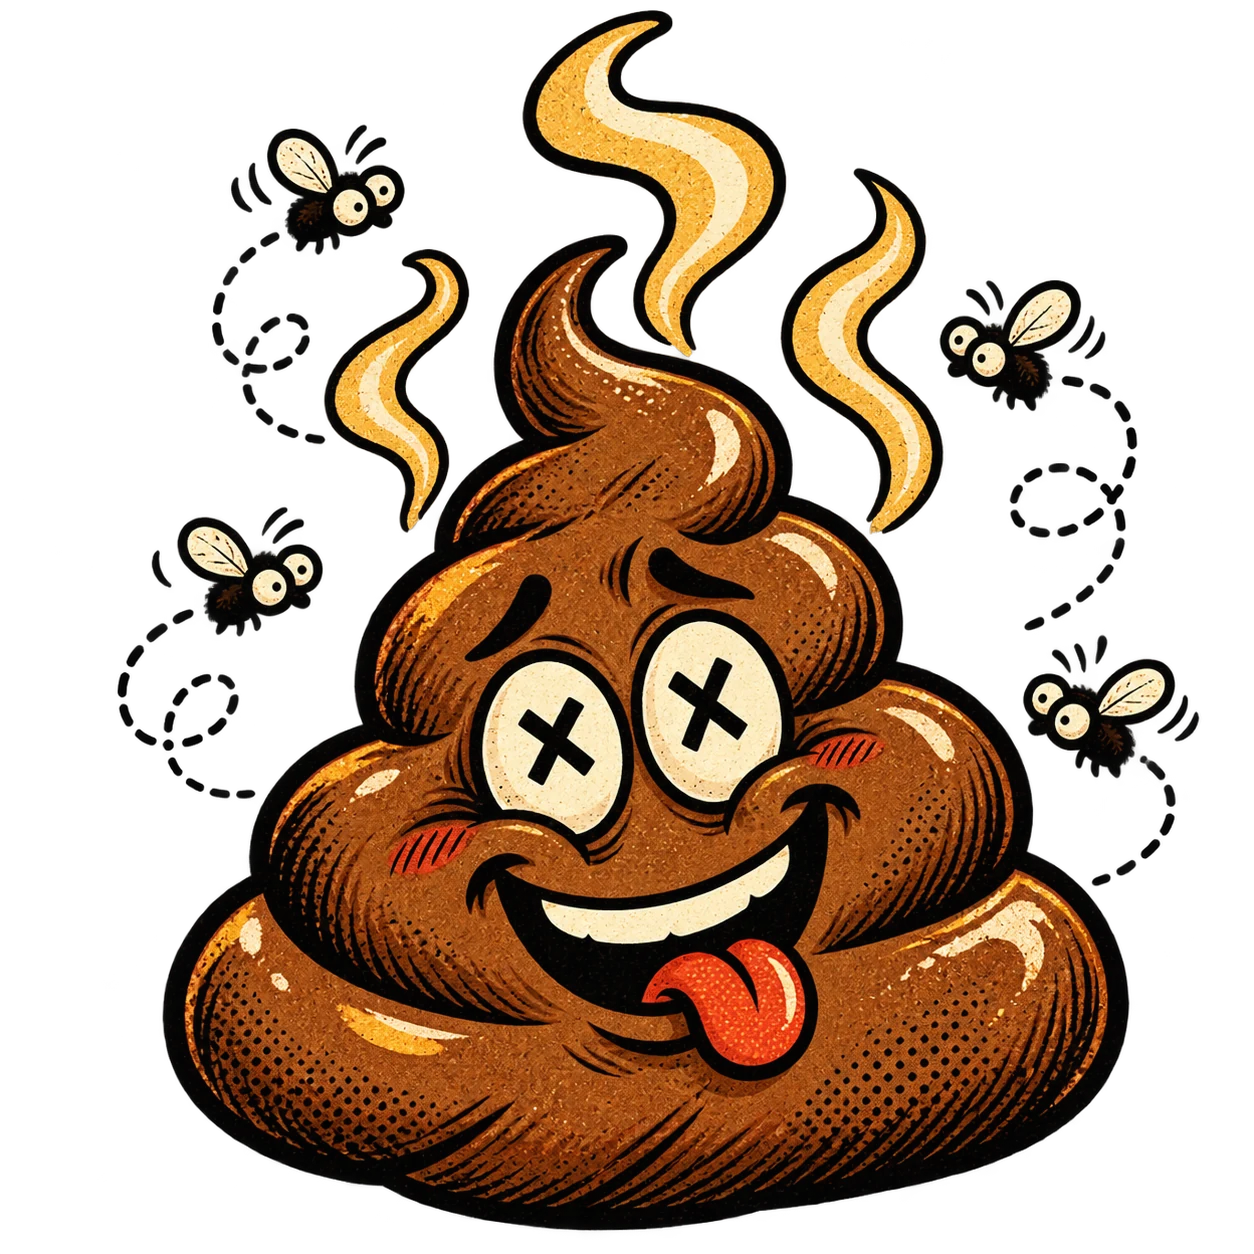
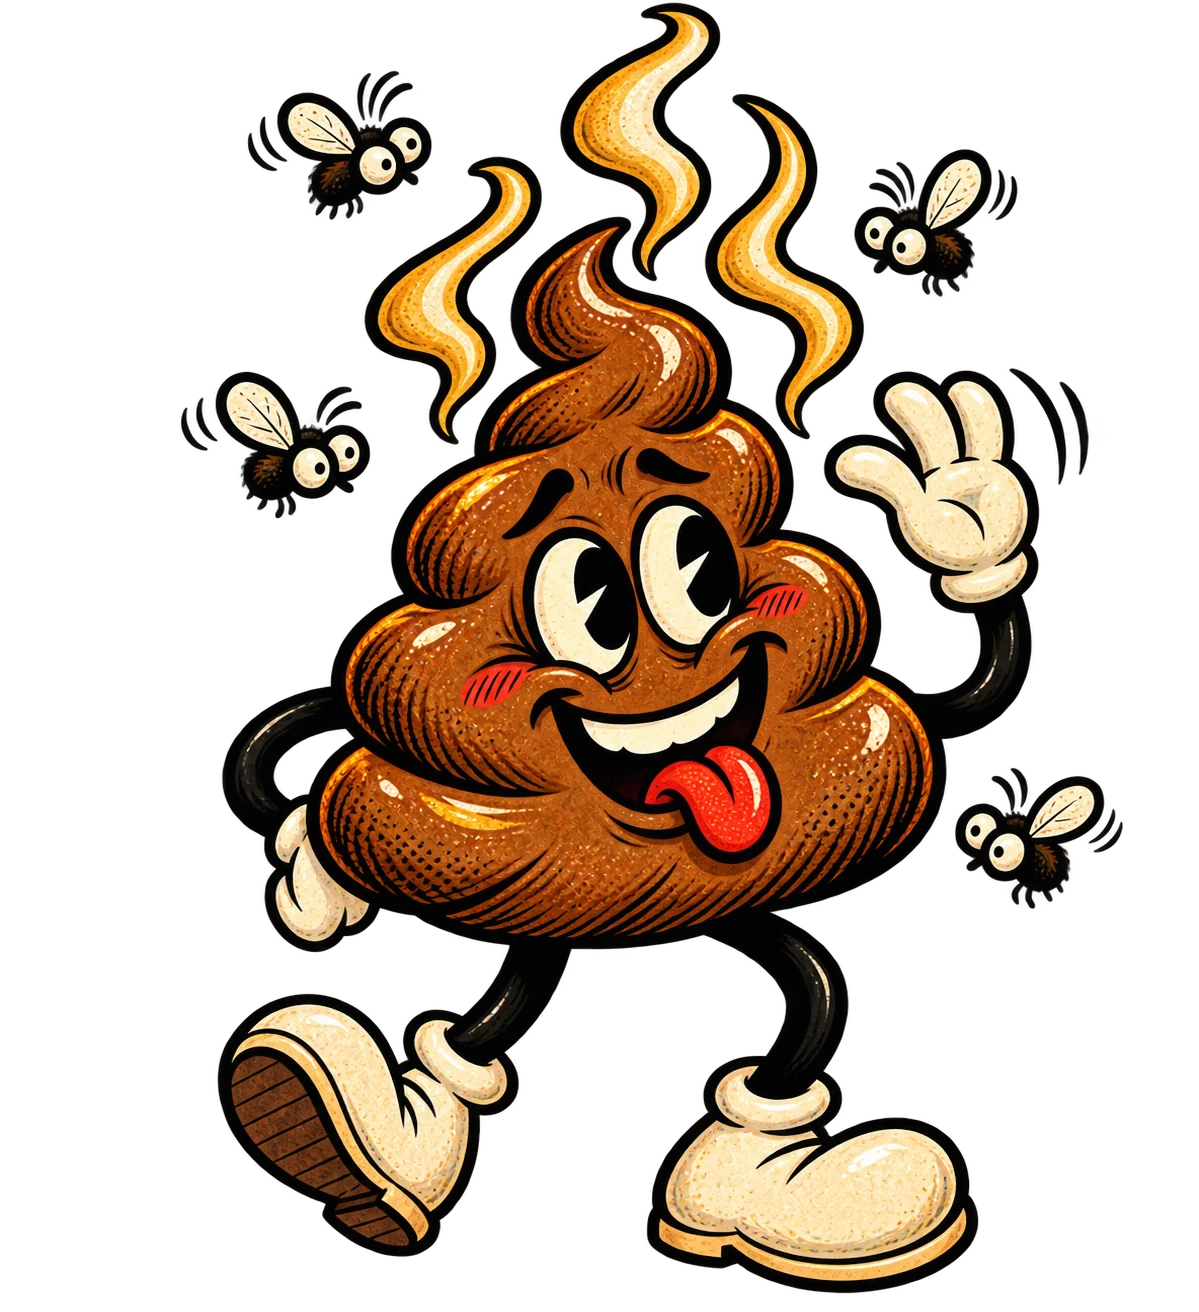
Match scoreboard art and TV typography to rubber-hose style

diff --git a/css/styles.css b/css/styles.css
@@ -586,6 +586,68 @@ body.scoreboard-mode .scoreboard-shell { width: 100vw; height: 100vh; height: 10
 .tv-finish-card > small { grid-column: 1 / -1; overflow: hidden; font-family: var(--font-condensed); font-size: calc(.55 * var(--tv-u)); font-weight: 900; text-overflow: ellipsis; text-transform: uppercase; white-space: nowrap; }
 .tv-finish-card.is-hidden { color: #dac896; background: #21162b; }
 
+/* Couch-distance legibility while retaining the 5-by-2 TV card grids. */
+body.scoreboard-mode .tv-player-heading {
+  grid-template-columns: calc(2.1 * var(--tv-u)) minmax(0, 1fr);
+  grid-template-rows: auto auto;
+  column-gap: calc(.45 * var(--tv-u));
+  row-gap: calc(.08 * var(--tv-u));
+}
+body.scoreboard-mode .tv-player-heading > span { grid-row: 1 / 3; font-size: calc(1.15 * var(--tv-u)); }
+body.scoreboard-mode .tv-player-heading strong { overflow: visible; overflow-wrap: anywhere; font-size: calc(1.75 * var(--tv-u)); line-height: .96; text-overflow: clip; white-space: normal; }
+body.scoreboard-mode .tv-player-heading b { grid-column: 2; justify-self: start; font-size: calc(1.02 * var(--tv-u)); letter-spacing: .025em; line-height: 1; }
+body.scoreboard-mode .tv-glass-pips span { font-size: calc(1.05 * var(--tv-u)); }
+body.scoreboard-mode .tv-player-progress > small { overflow: visible; font-size: calc(1 * var(--tv-u)); letter-spacing: .025em; line-height: 1.05; text-align: center; text-overflow: clip; white-space: normal; }
+body.scoreboard-mode .tv-ready-counter span,
+body.scoreboard-mode .tv-tasting-rail p { font-size: calc(1.05 * var(--tv-u)); line-height: 1.12; }
+
+body.scoreboard-mode .tv-hl-copy > p { font-size: calc(1.08 * var(--tv-u)); letter-spacing: .02em; }
+body.scoreboard-mode .tv-sample-letter { font-size: calc(1.28 * var(--tv-u)); }
+body.scoreboard-mode .tv-hl-values span { font-size: calc(1.5 * var(--tv-u)); line-height: 1.05; }
+body.scoreboard-mode .tv-hl-values small { margin-bottom: calc(.08 * var(--tv-u)); font-size: calc(.9 * var(--tv-u)); font-weight: 900; }
+body.scoreboard-mode .tv-hl-arrows span { font-size: calc(.94 * var(--tv-u)); line-height: 1; }
+body.scoreboard-mode .tv-calls-locked { font-size: calc(.88 * var(--tv-u)); letter-spacing: .015em; }
+body.scoreboard-mode .tv-hl-host > p { font-size: calc(.95 * var(--tv-u)); line-height: 1.08; }
+body.scoreboard-mode .tv-hl-ready strong { font-size: calc(1.9 * var(--tv-u)); }
+body.scoreboard-mode .tv-hl-ready small { font-size: calc(.9 * var(--tv-u)); }
+body.scoreboard-mode .tv-hl-ready span { font-size: calc(.72 * var(--tv-u)); line-height: 1; }
+
+body.scoreboard-mode .tv-stage-title strong { font-size: calc(1.7 * var(--tv-u)); line-height: 1; }
+body.scoreboard-mode .tv-stage-title span { font-size: calc(.9 * var(--tv-u)); letter-spacing: .015em; }
+body.scoreboard-mode .tv-reveal-card.is-hidden p { font-size: calc(1 * var(--tv-u)); }
+body.scoreboard-mode .tv-place-chip { font-size: calc(1.1 * var(--tv-u)); }
+body.scoreboard-mode .tv-reveal-card > b { font-size: calc(1 * var(--tv-u)); font-weight: 900; }
+body.scoreboard-mode .tv-reveal-card h3 { font-size: calc(1.42 * var(--tv-u)); line-height: 1.03; }
+body.scoreboard-mode .tv-reveal-card > p { font-size: calc(.88 * var(--tv-u)); }
+body.scoreboard-mode .tv-reveal-card > div { font-size: calc(1 * var(--tv-u)); }
+body.scoreboard-mode .tv-vault-meter span { font-size: calc(.88 * var(--tv-u)); line-height: 1.02; }
+body.scoreboard-mode .tv-compact-award span { font-size: calc(.88 * var(--tv-u)); }
+body.scoreboard-mode .tv-compact-award strong { font-size: calc(1.2 * var(--tv-u)); line-height: 1.05; }
+body.scoreboard-mode .tv-compact-award small { font-size: calc(.78 * var(--tv-u)); }
+
+body.scoreboard-mode .tv-player-leaderboard > div { grid-template-columns: calc(1.9 * var(--tv-u)) minmax(0, 1fr) calc(3 * var(--tv-u)); }
+body.scoreboard-mode .tv-player-leaderboard span {
+  width: calc(1.8 * var(--tv-u));
+  height: calc(1.8 * var(--tv-u));
+  font-size: calc(.92 * var(--tv-u));
+}
+body.scoreboard-mode .tv-player-leaderboard strong { font-size: calc(1.12 * var(--tv-u)); font-weight: 900; letter-spacing: .012em; }
+body.scoreboard-mode .tv-player-leaderboard b { font-size: calc(1.18 * var(--tv-u)); }
+body.scoreboard-mode .tv-player-leaderboard.is-compact > div { padding-block: calc(.18 * var(--tv-u)); }
+body.scoreboard-mode .tv-player-leaderboard.is-compact strong { font-size: calc(1.02 * var(--tv-u)); }
+body.scoreboard-mode .tv-player-leaderboard.is-compact b { font-size: calc(1.08 * var(--tv-u)); }
+
+body.scoreboard-mode .tv-final-award > span,
+body.scoreboard-mode .tv-final-award.is-loser span { font-size: calc(1.28 * var(--tv-u)); }
+body.scoreboard-mode .tv-final-award h2 { font-size: calc(2.8 * var(--tv-u)); line-height: .98; }
+body.scoreboard-mode .tv-final-award > strong,
+body.scoreboard-mode .tv-final-award.is-loser div > strong { font-size: calc(1.85 * var(--tv-u)); }
+body.scoreboard-mode .tv-final-award p { font-size: calc(1 * var(--tv-u)); line-height: 1.08; }
+body.scoreboard-mode .tv-final-award.is-loser h2 { font-size: calc(2.15 * var(--tv-u)); }
+body.scoreboard-mode .tv-finish-card > strong { font-size: calc(1 * var(--tv-u)); }
+body.scoreboard-mode .tv-finish-card > span { font-size: calc(1.55 * var(--tv-u)); }
+body.scoreboard-mode .tv-finish-card > small { font-size: calc(.82 * var(--tv-u)); line-height: 1; }
+
 @keyframes tvBulbs { 0%,100% { border-color: #f4c45b; filter: brightness(.9); } 50% { border-color: #fff3ba; filter: brightness(1.45); } }
 @keyframes tvReadyPulse { 0%,100% { transform: scale(1); } 50% { transform: scale(1.015); } }
 @keyframes tvHostBob { 0%,100% { transform: rotate(-.6deg) translateY(0); } 50% { transform: rotate(.7deg) translateY(calc(-.3 * var(--tv-u))); } }

diff --git a/js/scoreboard.js b/js/scoreboard.js
@@ -88,7 +88,7 @@ function renderTastingStage(calc) {
         ${calc.playerResults.map((player, index) => renderPlayerProgress(player, letters, index)).join('')}
       </div>
       <aside class="tv-tasting-rail">
-        <img src="./assets/moose.webp" alt="The Drunk Moose watches the tasting progress">
+        <img src="./assets/moose-bourbon-creek.webp" alt="The Drunk Moose stands in a creek of bourbon and licks it as it spills from a copper still">
         <div class="tv-ready-counter"><strong>${ready}<small>/ ${calc.playerResults.length}</small></strong><span>Palates locked</span></div>
         <p>${ready === calc.playerResults.length && ready ? 'Every glass is scored. Somebody ring the bell.' : 'Scores move live as every mystery glass gets finished.'}</p>
       </aside>
@@ -122,7 +122,7 @@ function renderHigherLowerStage(game, calc) {
       </div>
       <aside class="tv-hl-host">
         <div class="tv-hl-ready"><strong>${ready}<small>/${calc.playerResults.length}</small></strong><span>crowd cards locked</span></div>
-        <img src="./assets/moose-game-show-host.webp" alt="The Drunk Moose in a sweaty velvet suit holding a long game-show microphone">
+        <img src="./assets/moose-game-show-host.webp" alt="The Drunk Moose in a sweaty velvet suit holding a long game-show wand microphone and a glass of bourbon">
         <p>“The crowd has opinions. Accuracy remains under investigation.”</p>
       </aside>
     </section>`;
@@ -200,7 +200,7 @@ function renderFinalStage(calc) {
           <div class="tv-savant-star" aria-hidden="true">★</div>
         </article>
         <article class="tv-final-award is-loser" data-award="biggest-loser">
-          <img src="./assets/biggest-loser-poop.webp" alt="A steaming cartoon poop pile with flies">
+          <img src="./assets/biggest-loser-poop.webp" alt="A rubber-hose cartoon poop pile steaming while flies buzz around it">
           <div><span>Biggest Loser${losers.length > 1 ? 's' : ''}</span>
             <h2>${losers.length ? esc(playerNames(losers)) : 'No loser yet'}</h2>
             <strong>${losingScore} points</strong>

diff --git a/sw.js b/sw.js
@@ -1,4 +1,4 @@
-const CACHE_NAME = 'blind-bourbon-derby-v5-retro-game-show';
+const CACHE_NAME = 'blind-bourbon-derby-v6-rubber-hose-art';
 const APP_SHELL = [
   './',
   './index.html',
@@ -13,6 +13,7 @@ const APP_SHELL = [
   './assets/derby-logo.webp',
   './assets/derby-scorecard.webp',
   './assets/moose.webp',
+  './assets/moose-bourbon-creek.webp',
   './assets/moose-game-show-host.webp',
   './assets/biggest-loser-poop.webp',
   './assets/favicon.png',
